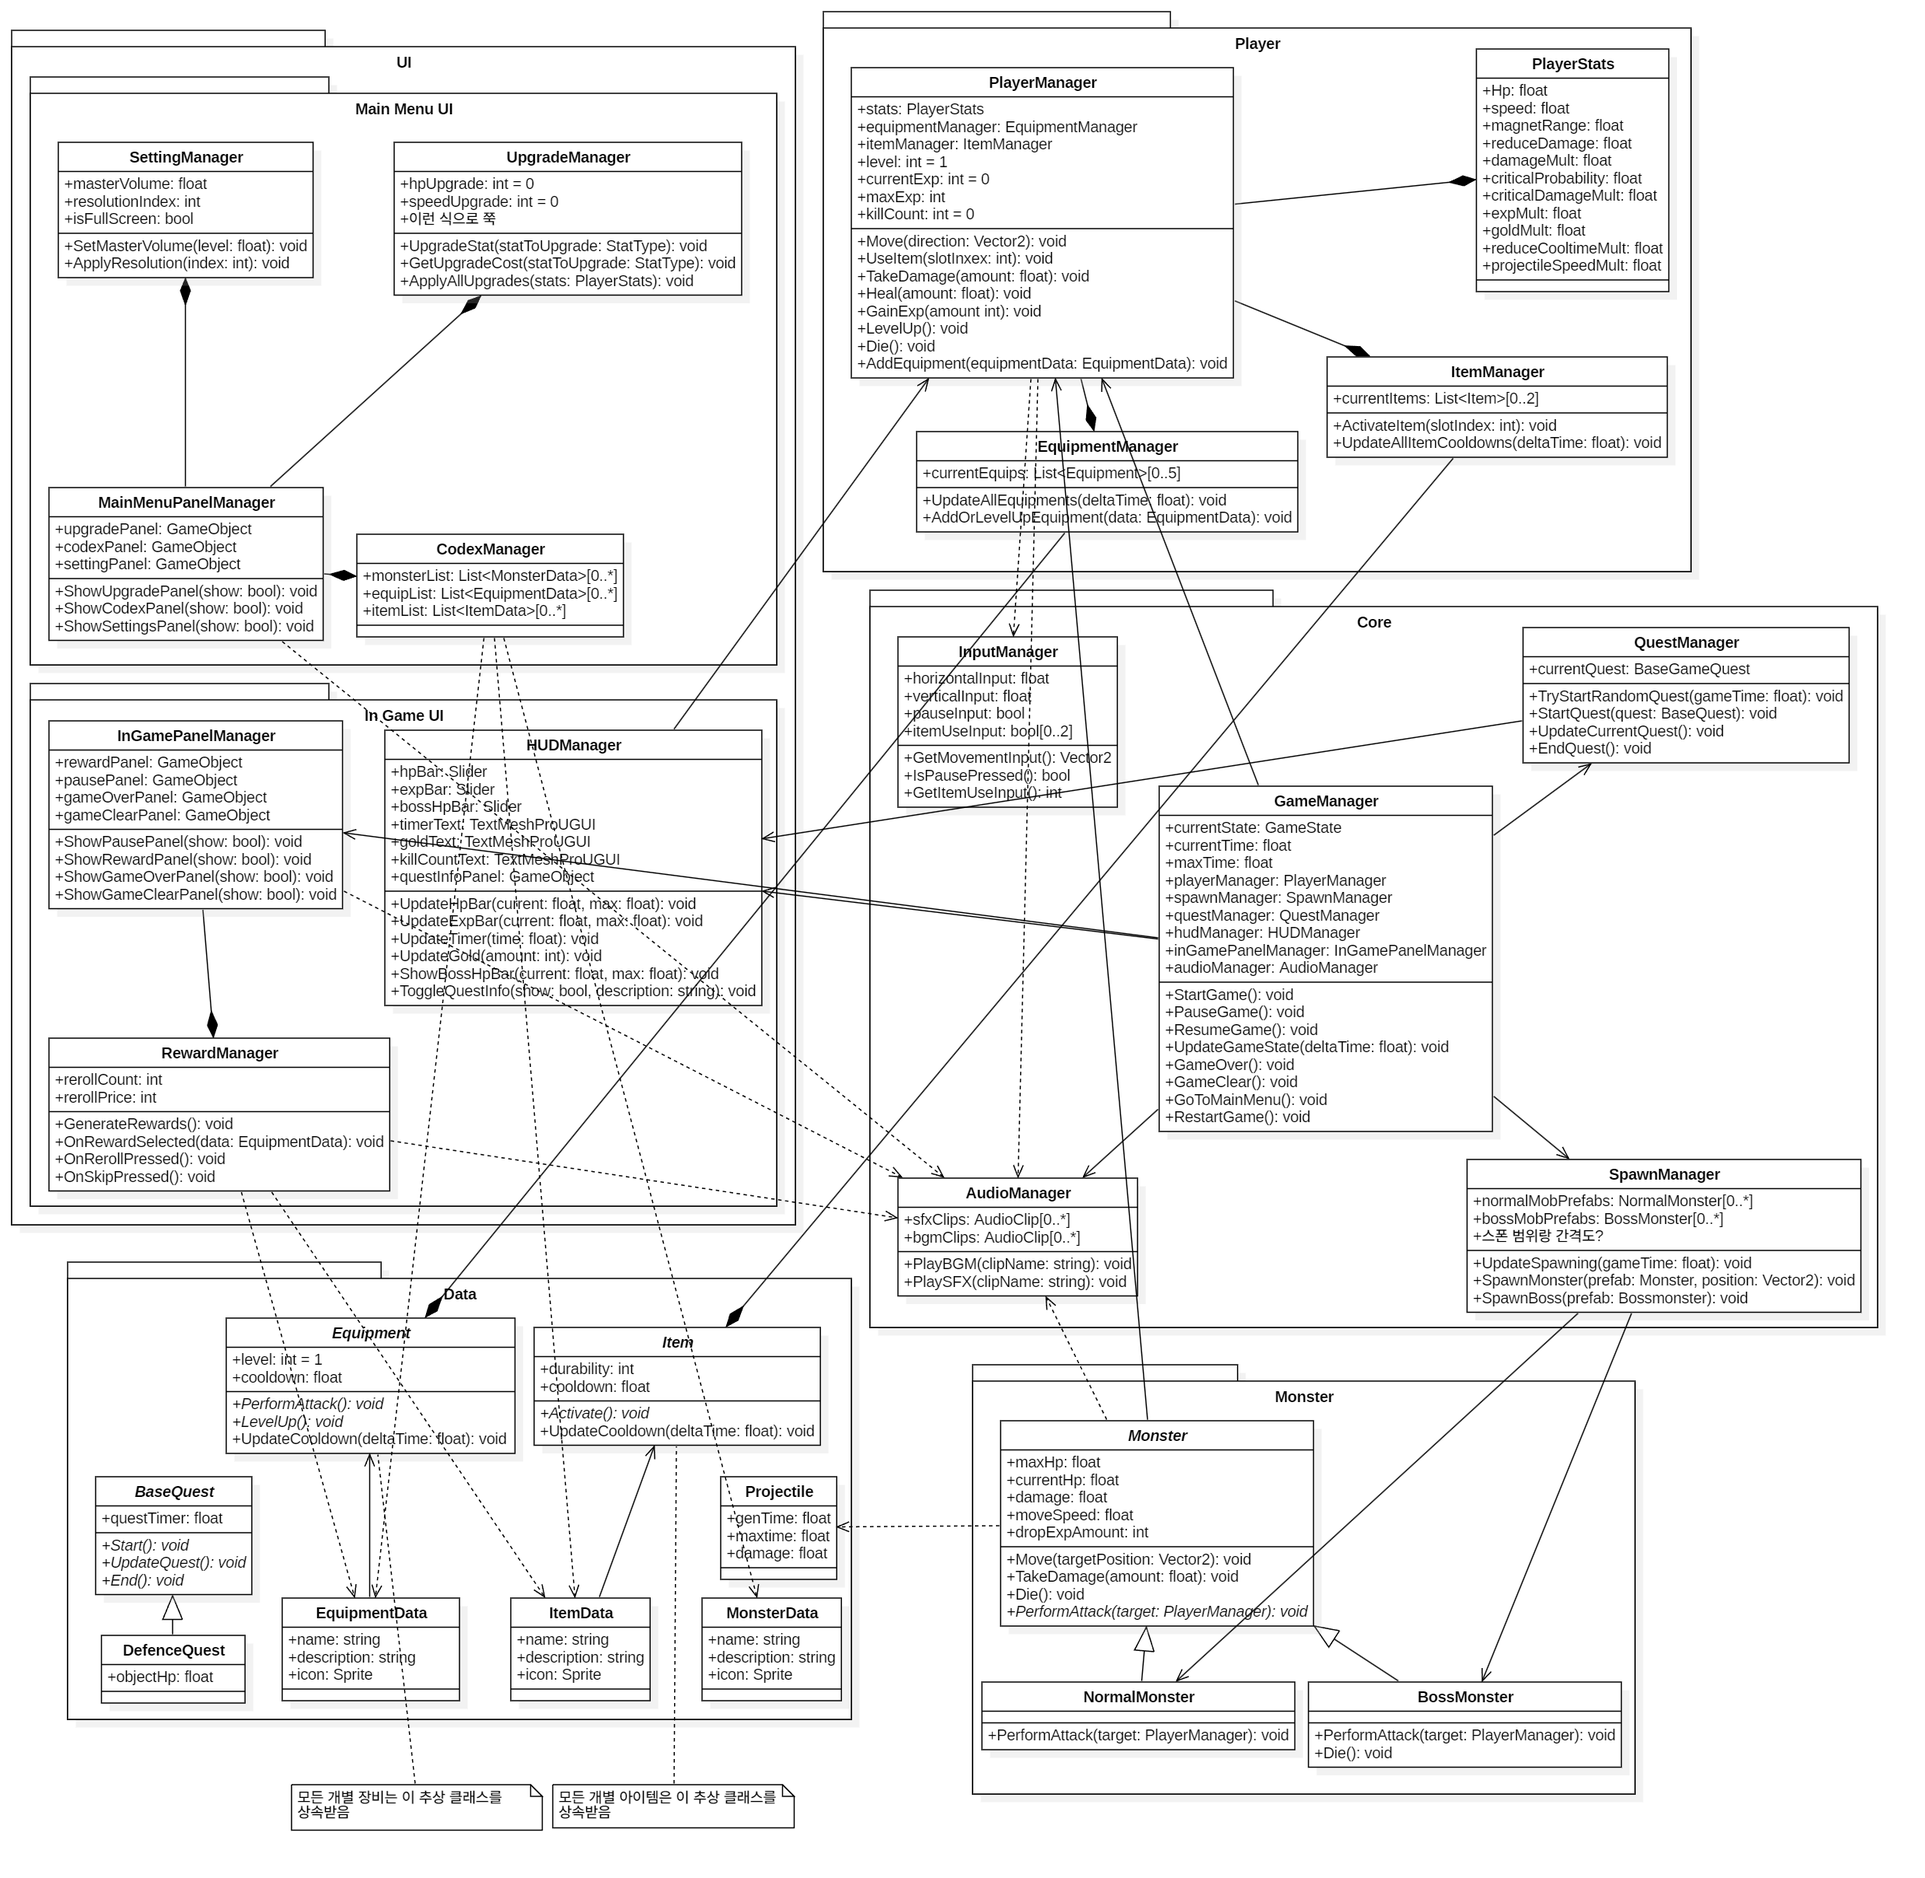
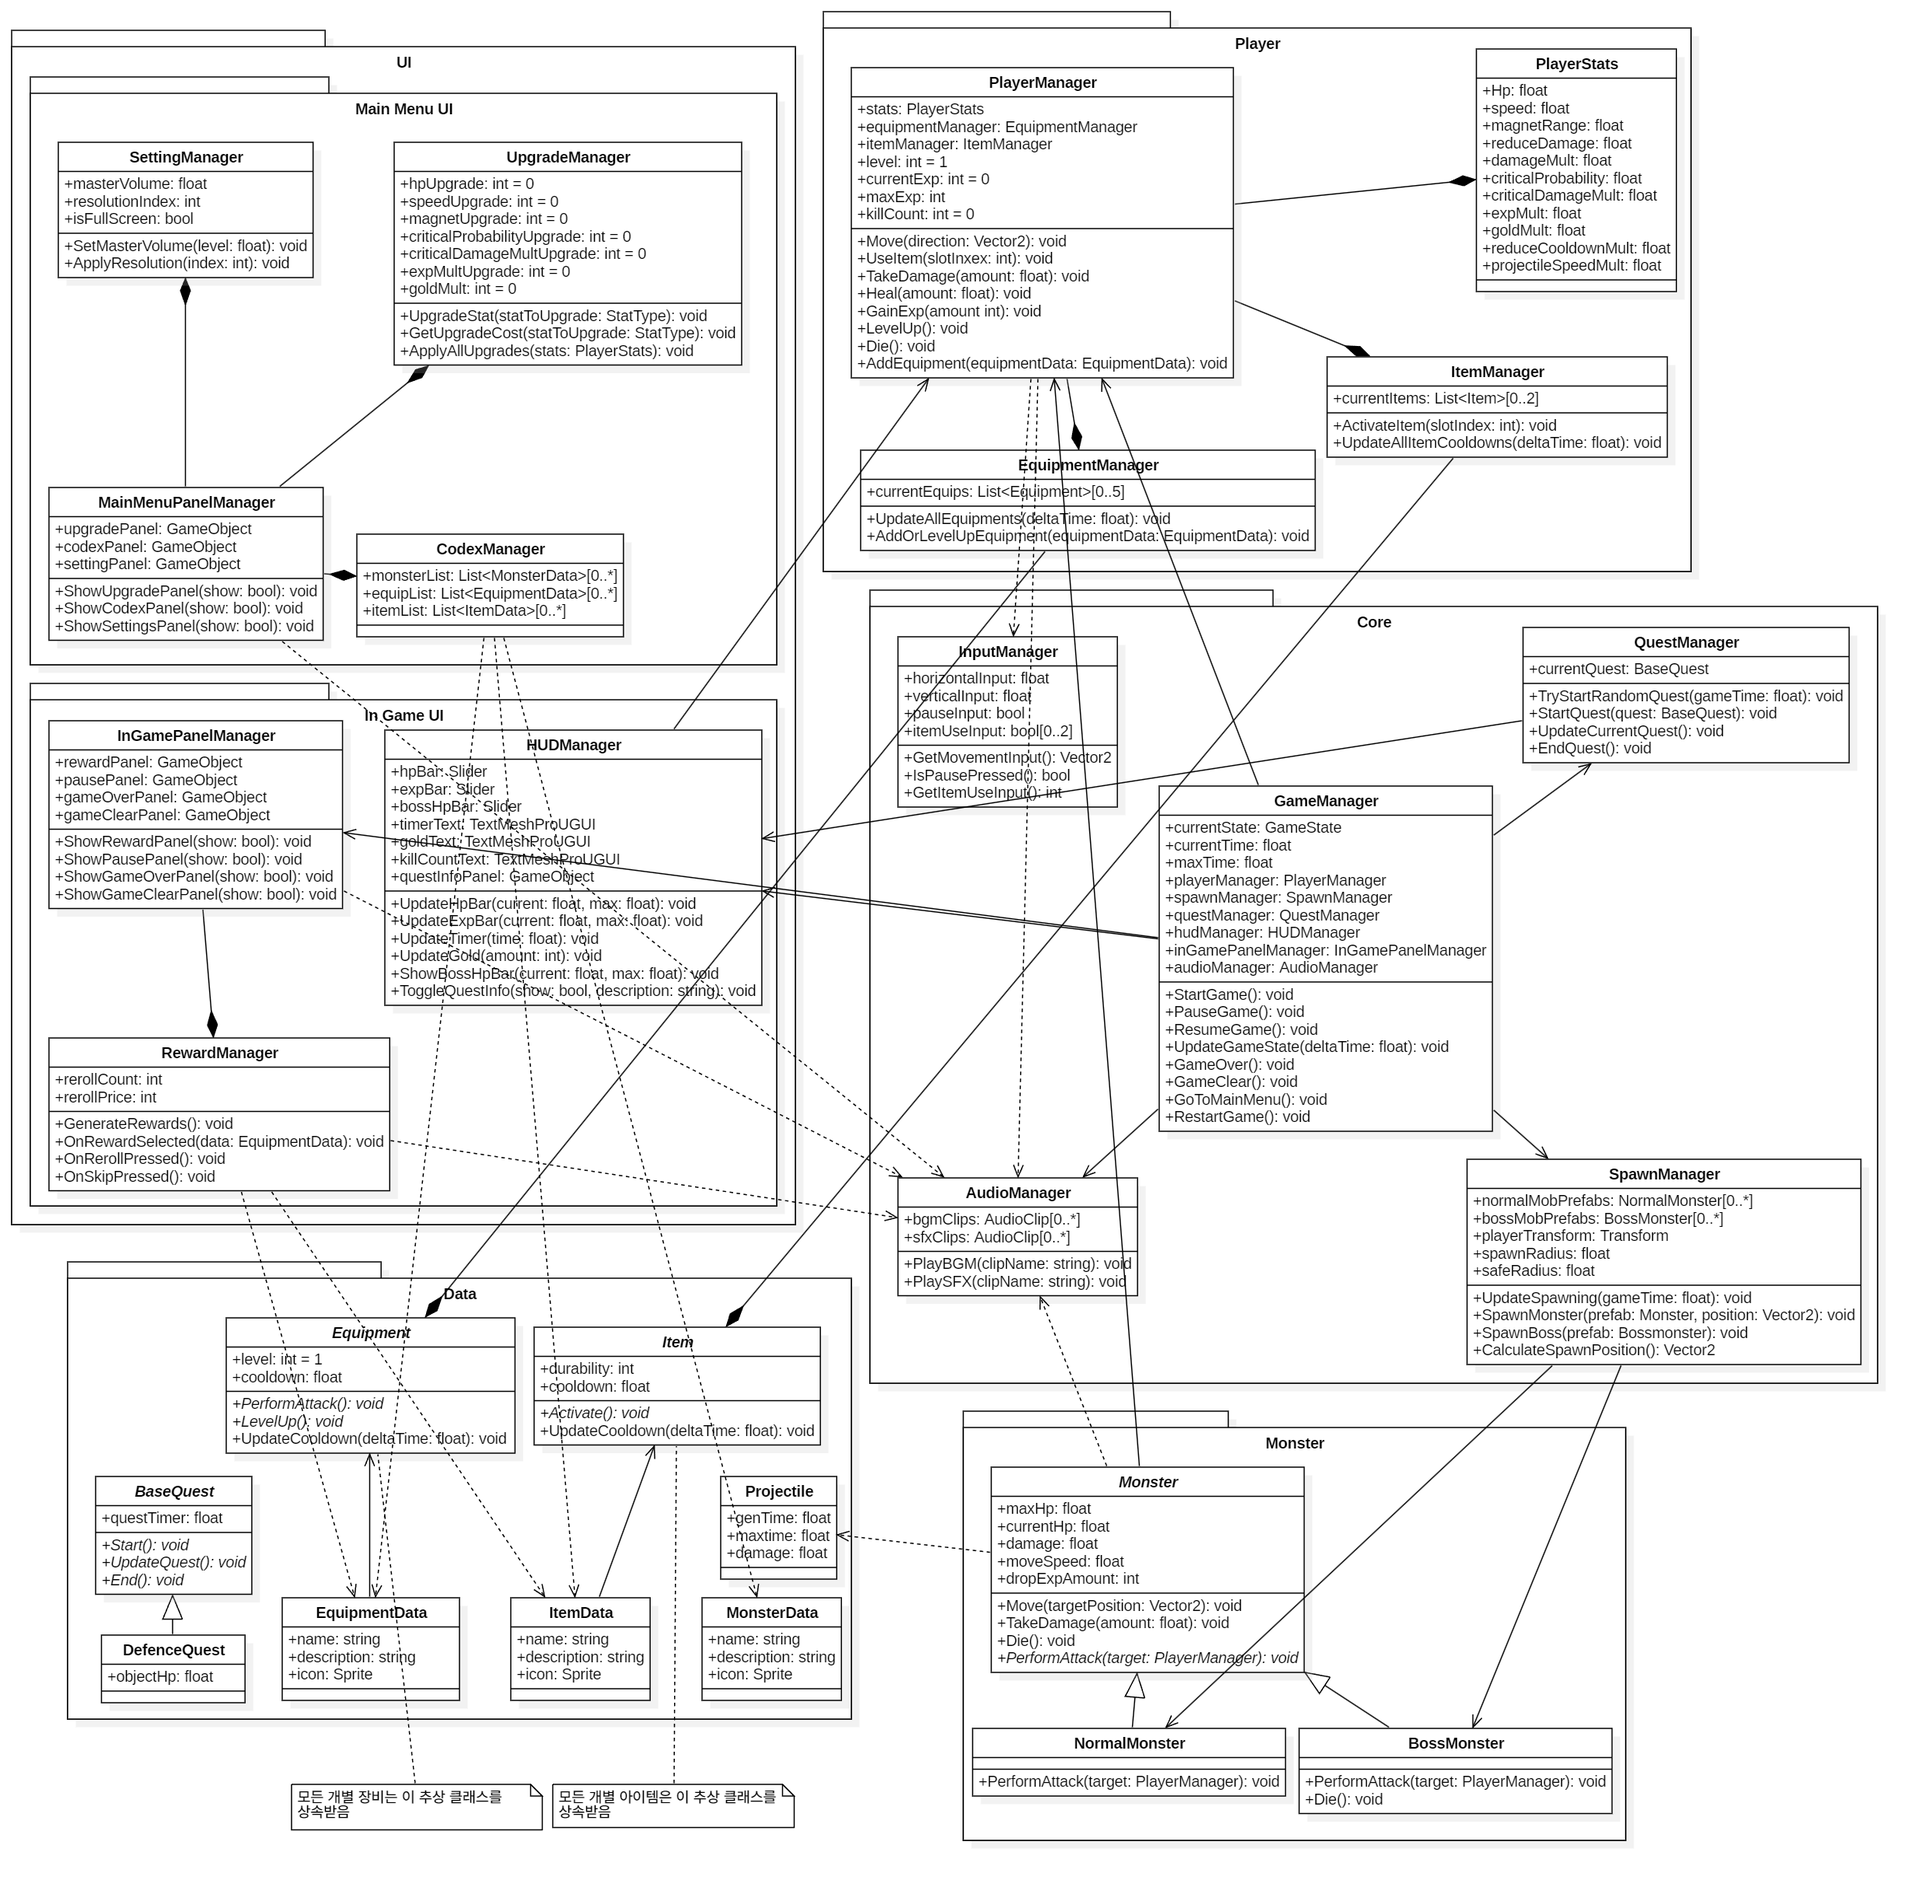
doc: Class Diagram 이미지 갱신, SpawnManager 및 QuestManager 추가, UpgradeManager 필드 추가

diff --git a/docs/02_SDS.md b/docs/02_SDS.md
@@ -255,6 +255,46 @@
 | `IsPausePressed()`   | 일시 정지 입력 처리    | `bool`        | `Public`   |
 | `GetItemUseInput()`  | 아이템 사용 키 입력 처리 | `int`         | `Public`   |
 
+#### Class: [SpawnManager]
+* **Description:** 몬스터 생성을 관리하는 매니저 클래스
+
+**Attributes (속성)**
+
+| Name               | Description     | Type                  | Visibility |
+|:-------------------|:----------------|:----------------------|:-----------|
+| `normalMobPrefabs` | 일반 몬스터 프리팹      | `NormalMonster[0..*]` | `Private`  |
+| `bossMobPrefabs`   | 보스 몬스터 프리팹      | `BossMonster[0..*]`   | `Private`  |
+| `playerTransform`  | 플레이어 위치         | `Transform`           | `Private`  |
+| `spawnRadius`      | 몬스터 객체 생성 범위    | `float`               | `Private`  |
+| `safeRadius`       | 몬스터 객체 생성 제외 범위 | `float`               | `Private`  |
+
+**Operations (메서드)**
+
+| Name                                             | Description      | Type (Return) | Visibility |
+|:-------------------------------------------------|:-----------------|:--------------|:-----------|
+| `UpdateSpawning(gameTime:float)`                 | 시간에 맞는 몬스터 생성 처리 | `void`        | `Public`   |
+| `SpawnMonster(prefab:Monster, position:Vector2)` | 실제 몬스터 생성        | `void`        | `Public`   |
+| `SpawnBoss(prefab:Bossmonster)`                  | 보스 몬스터 생성        | `void`        | `Public`   |
+| `CalculateSpawnPosition()`                       | 몬스터 생성 위치 계산     | `Vector2`     | `Public`   |
+
+#### Class: [QuestManager]
+* **Description:** 돌발 이벤트를 관리하는 매니저 클래스
+
+**Attributes (속성)**
+
+| Name           | Description | Type        | Visibility |
+|:---------------|:------------|:------------|:-----------|
+| `currentQuest` | 현재 퀘스트 정보   | `BaseQuest` | `Private`  |
+
+**Operations (메서드)**
+
+| Name                                  | Description   | Type (Return) | Visibility |
+|:--------------------------------------|:--------------|:--------------|:-----------|
+| `TryStartRandomQuest(gameTime:float)` | 돌발 이벤트 활성화 시도 | `void`        | `Public`   |
+| `StartQuest(quest: BaseQuest)`        | 돌발 이벤트 시작     | `void`        | `Public`   |
+| `UpdateCurrentQuest()`                | 이벤트 완료 여부 검사  | `void`        | `Public`   |
+| `EndQuest()`                          | 이벤트 완료 처리     | `Vector2`     | `Public`   |
+
 #### Class: [AudioManager]
 * **Description:** 게임의 모든 사운드를 관리하는 매니저 클래스
 
@@ -446,11 +486,15 @@
 
 **Attributes (속성)**
 
-| Name           | Description | Type  | Visibility |
-|:---------------|:------------|:------|:-----------|
-| `hpUpgrade`    | 체력 강화 단계    | `int` | `Private`  |
-| `speedUpgrade` | 이동 속도 강화 단계 | `int` | `Private`  |
-| ...            |
+| Name                         | Description  | Type  | Visibility |
+|:-----------------------------|:-------------|:------|:-----------|
+| `hpUpgrade`                  | 체력 강화 단계     | `int` | `Private`  |
+| `speedUpgrade`               | 이동 속도 강화 단계  | `int` | `Private`  |
+| `magnetUpgrade`              | 드롭 획득 범위 증가  | `int` | `Private`  |
+| `criticalProbabilityUpgrade` | 치명타 확률 증가    | `int` | `Private`  |
+| `criticalDamageMultUpgrade`  | 치명타 피해 배율 증가 | `int` | `Private`  |
+| `expMultUpgrade`             | 경험치 획득 배율 증가 | `int` | `Private`  |
+| `goldMult`                   | 재화 획득 배율 증가  | `int` | `Private`  |
 
 **Operations (메서드)**
 
